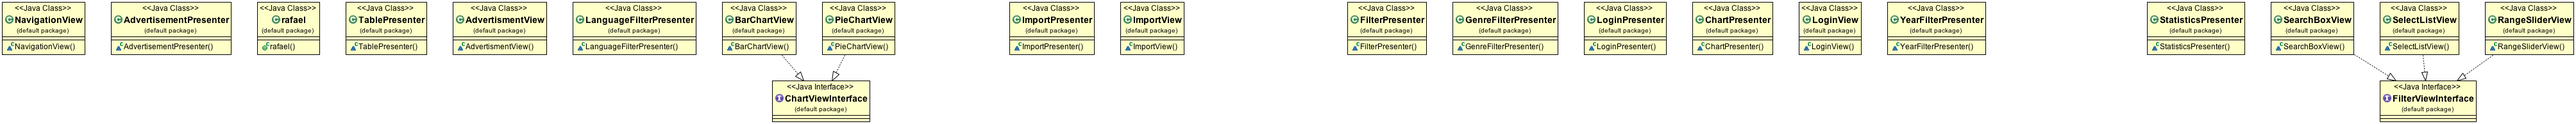
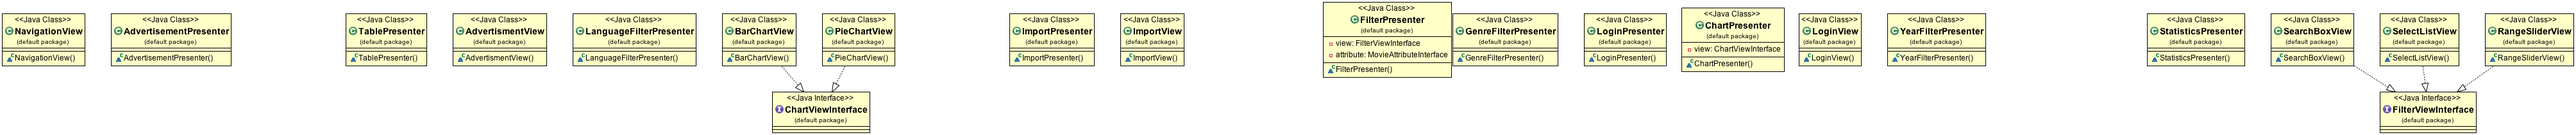
Some changes

diff --git a/ClassDiagram/src/francesca.java b/ClassDiagram/src/francesca.java
@@ -1,27 +1,27 @@
-import java.lang.Object;
 
-public class francesca extends Object {
-	
-	class movieAttribute {}
-	
-	class movieTitle {}
-	
-	class movieYear {}
-	
-	class movieMonth {}
-	
-	class movieDay {}
-	
-	class movieLanguage {}
-	
-	class movieCountry {}
-	
-	class movieRating {}
-	
-	class movieDuration {}
-	
-	class movieID {}
-	
-	class movie {}
+interface MovieAttributeInterface {
+}
 
+class MovieTitle implements MovieAttributeInterface {}
+
+class MovieYear implements MovieAttributeInterface {}
+
+class MovieLanguage implements MovieAttributeInterface {}
+
+class MovieCountry implements MovieAttributeInterface {}
+
+class MovieRating implements MovieAttributeInterface {}
+
+class MovieDuration implements MovieAttributeInterface {}
+
+class MovieID implements MovieAttributeInterface {}
+
+class Movie {
+	public MovieID id;
+	public MovieTitle title;
+	public MovieYear year;
+	public MovieLanguage[] languages;
+	public MovieCountry[] countries;
+	public MovieRating rating;
+	public MovieDuration duration;
 }

diff --git a/ClassDiagram/src/Natalie.java b/ClassDiagram/src/Natalie.java
@@ -21,6 +21,7 @@ class ChartPresenter {
 
 class FilterPresenter {
 	private FilterViewInterface view;
+	private MovieAttributeInterface attribute;
 }
 
 class YearFilterPresenter extends FilterPresenter {
